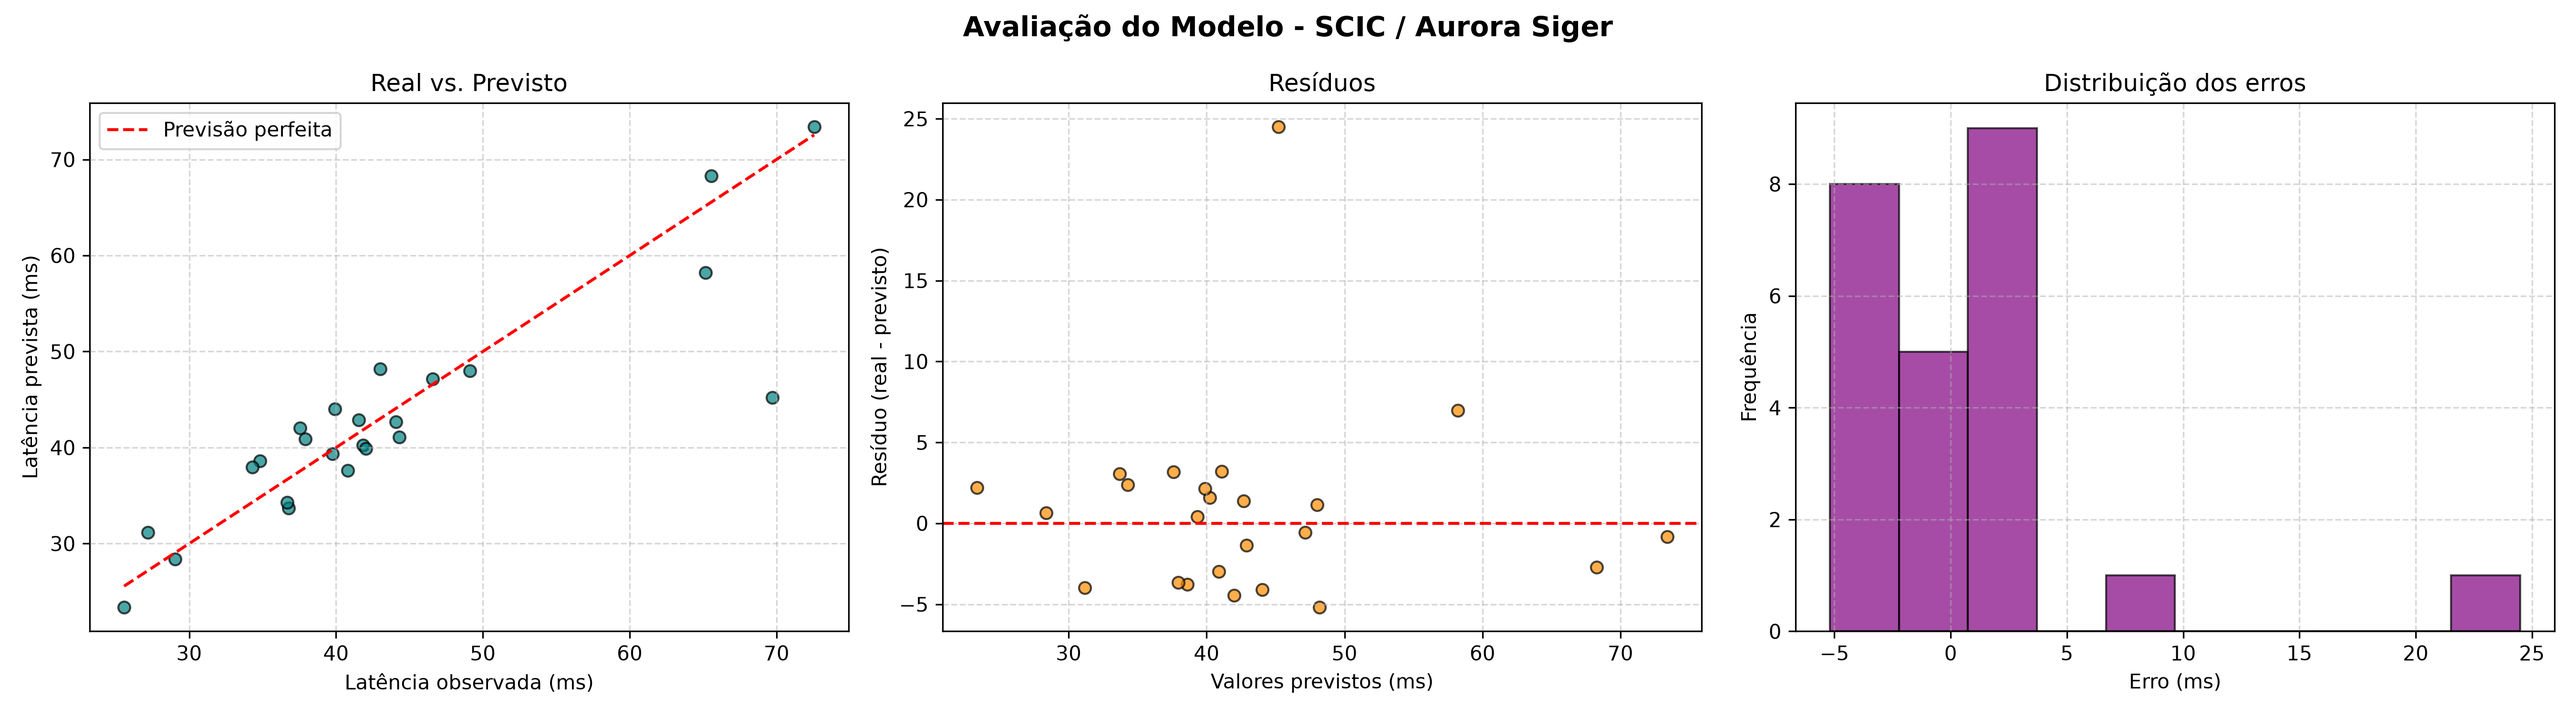
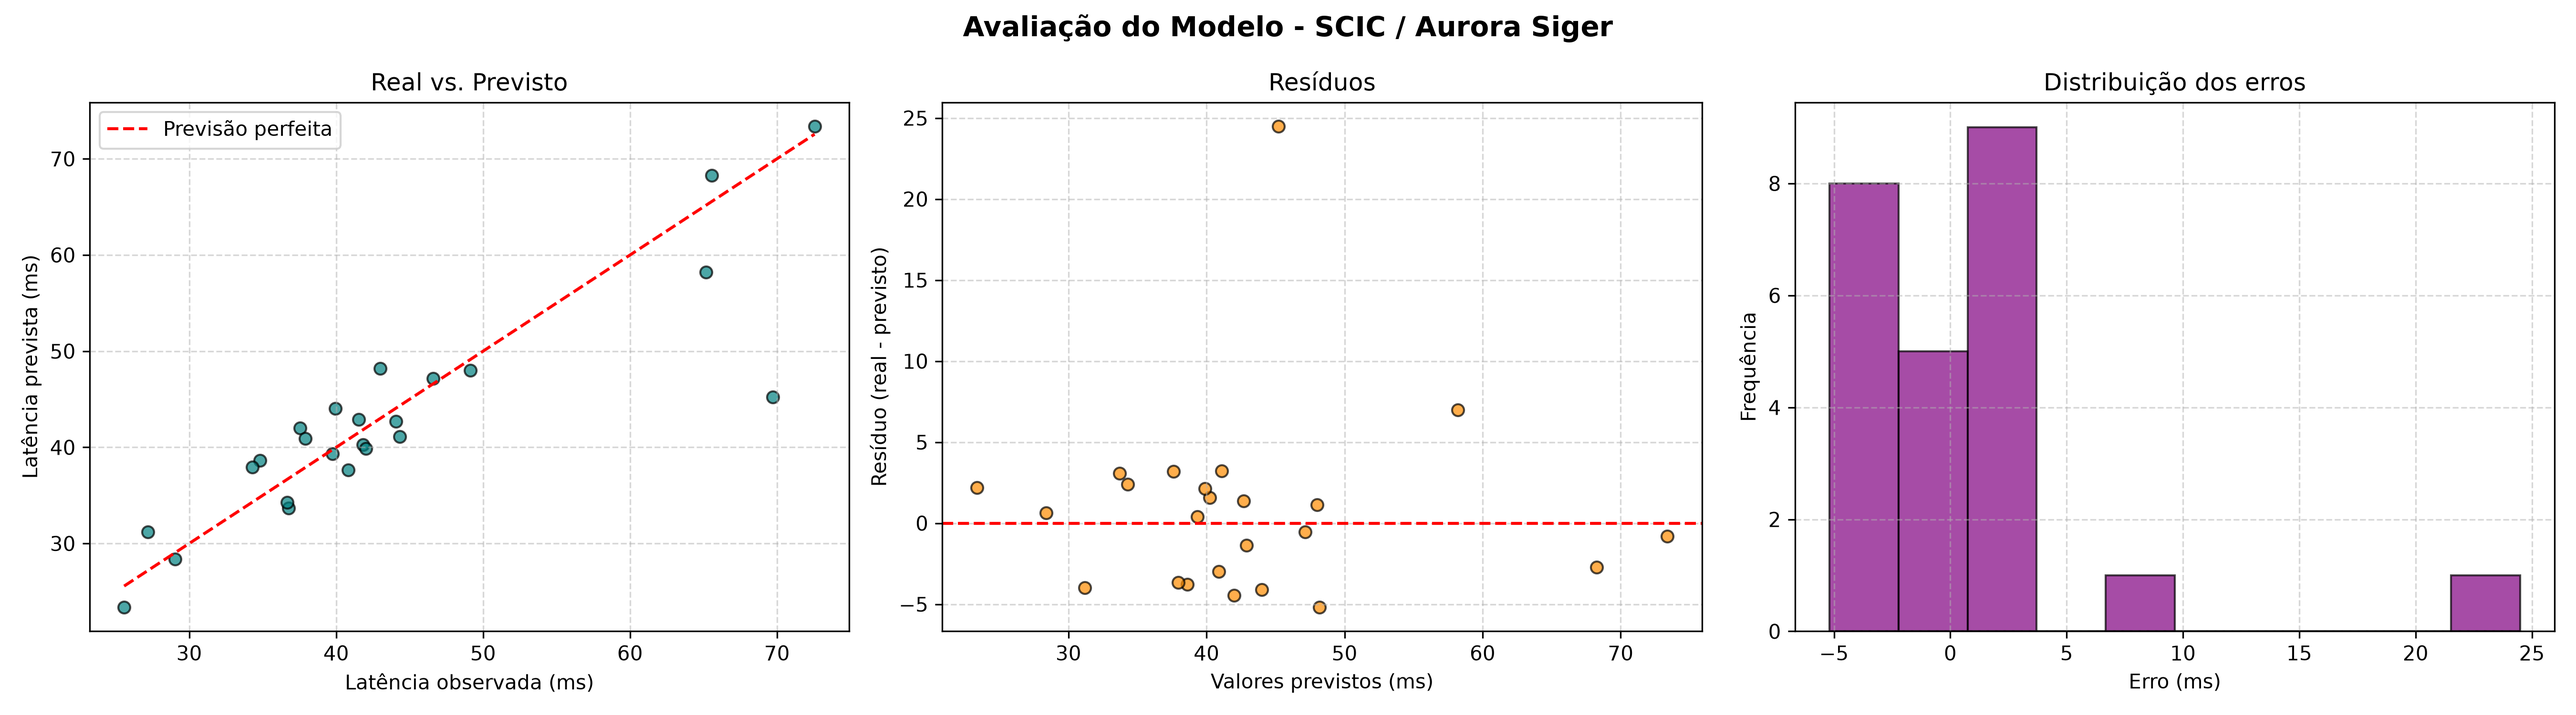
docs: update README documentation and phase assets

diff --git a/src/fases_anteriores/fase4.py b/src/fases_anteriores/fase4.py
@@ -576,3 +576,7 @@ def executar_fase4(resultado_fase2: dict, resultado_fase3: dict) -> dict:
             "parcialmente_operacional" if inativos else "totalmente_operacional"
         ),
     }
+
+
+if __name__ == "__main__":
+    executar_fase4(None, None)
